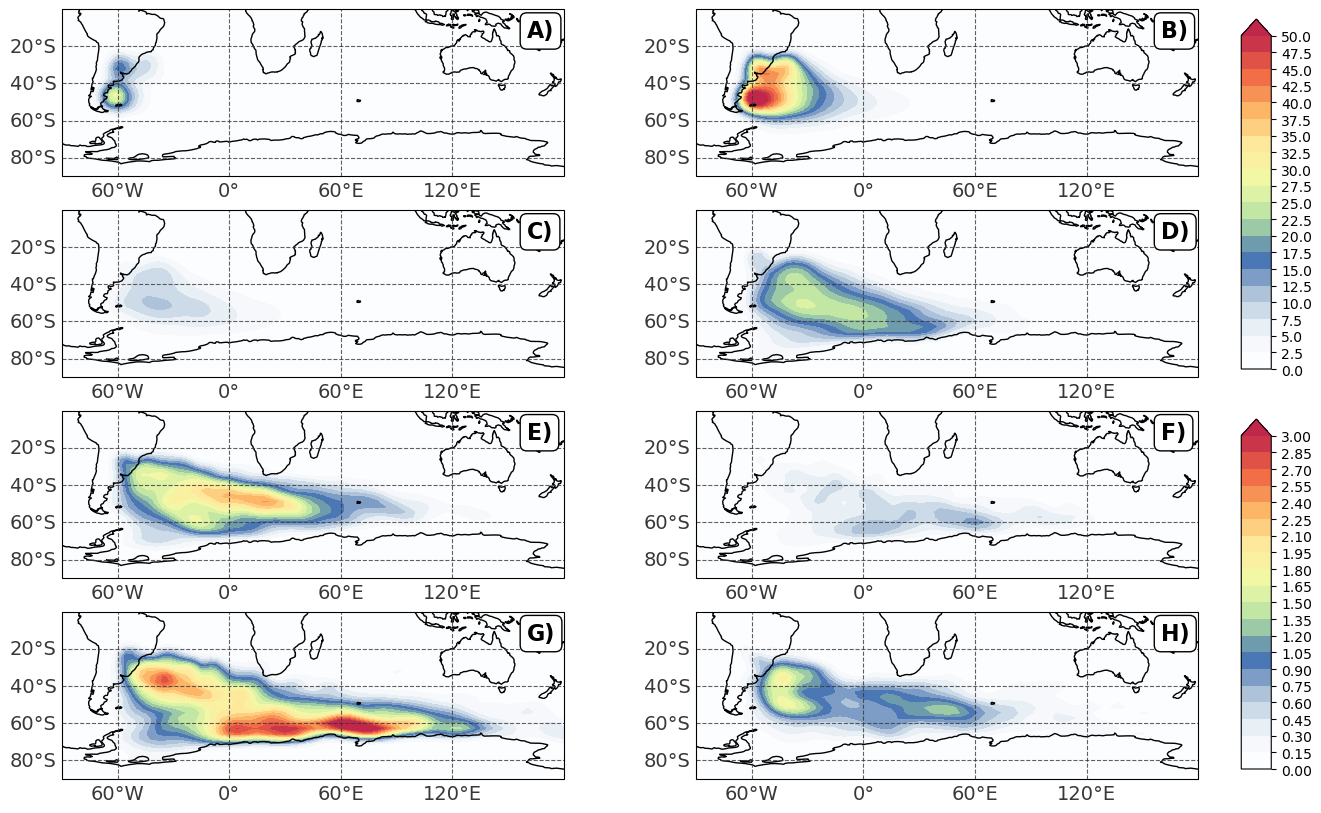
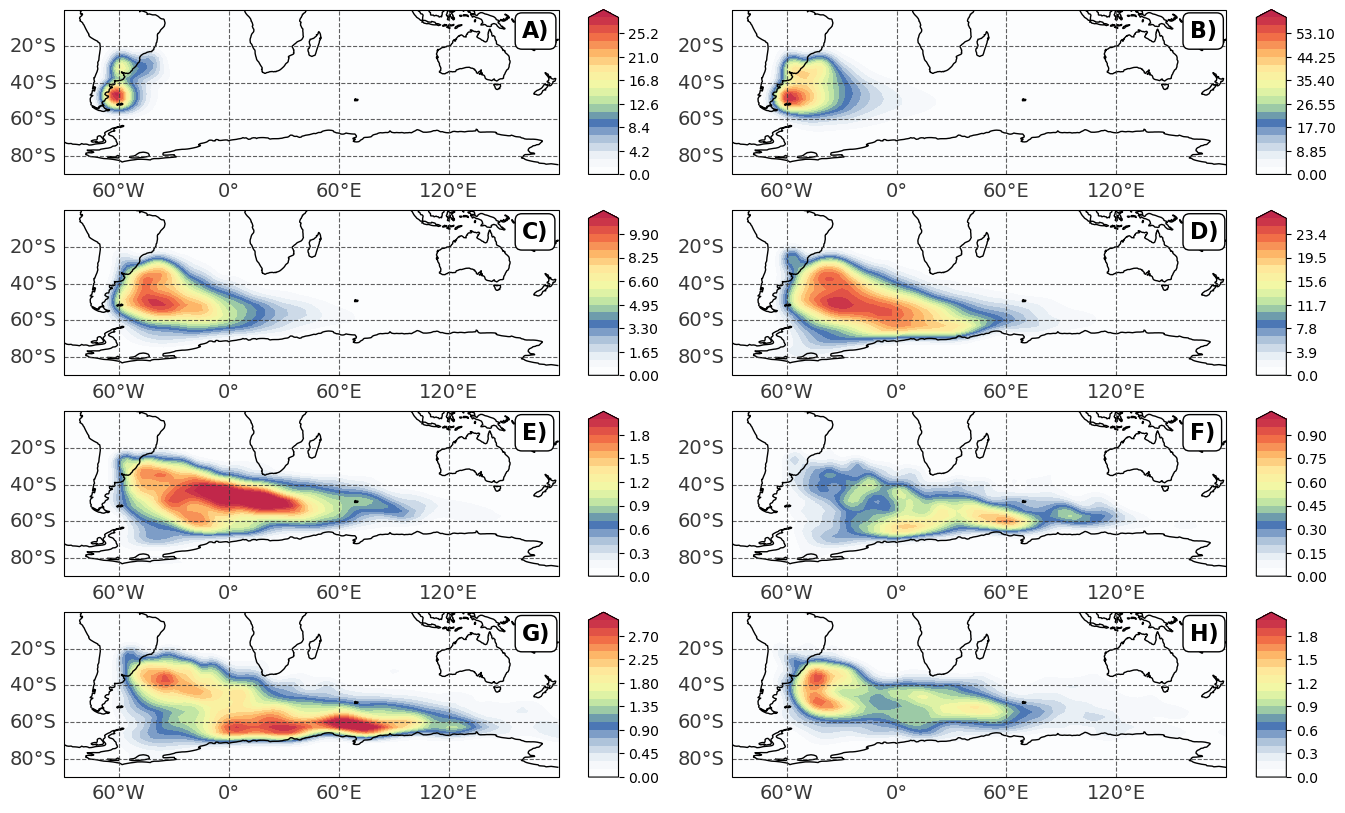
Updated figure so each plot has its cbar

Changed region(s): [[0.0, 0.0, 0.9932, 0.984], [0.3104, 0.9533, 0.3724, 0.984]]

diff --git a/src_manuscript_life-cycle/phases_density.py b/src_manuscript_life-cycle/phases_density.py
@@ -3,10 +3,10 @@
 #                                                         :::      ::::::::    #
 #    phases_density.py                                  :+:      :+:    :+:    #
 #                                                     +:+ +:+         +:+      #
-#    By: Danilo <danilo.oceano@gmail.com>           +#+  +:+       +#+         #
+#    By: Danilo  <danilo.oceano@gmail.com>          +#+  +:+       +#+         #
 #                                                 +#+#+#+#+#+   +#+            #
 #    Created: 2023/08/08 20:33:08 by Danilo            #+#    #+#              #
-#    Updated: 2023/09/14 20:23:03 by Danilo           ###   ########.fr        #
+#    Updated: 2023/09/15 12:09:33 by Danilo           ###   ########.fr        #
 #                                                                              #
 # **************************************************************************** #
 
@@ -37,20 +37,16 @@ def plot_density(ax, i, density, label):
 
     lon, lat = density.lon, density.lat
 
-    if i < 4:
-        levels = np.linspace(0, 50, 21)
-    else:
-        levels = np.linspace(0, 3, 21)
+    levels = np.linspace(0, round(float(np.amax(density))), 21)
 
     cf = plt.contourf(lon, lat, density, cmap=cmap, levels=levels, extend='max')
 
-    if i == 0:
-        # Create a separate axis for the colorbar
-        cax = fig.add_axes([0.92, 0.52, 0.02, 0.35]) 
-        plt.colorbar(cf, cax=cax, ticks=levels)
-    if i == 4:
-        cax = fig.add_axes([0.92, 0.12, 0.02, 0.35]) 
-        plt.colorbar(cf, cax=cax, ticks=levels)
+    cax = fig.add_axes([ax.get_position().x1 + 0.02,
+                        ax.get_position().y0, 0.02,
+                        ax.get_position().height]) 
+    # Define the ticks for the colorbar with every 2nd value
+    ticks = np.round(levels[::3], decimals=2)
+    plt.colorbar(cf, cax=cax, ticks=ticks)
 
     props = dict(boxstyle='round', facecolor='white')
     ax.text(160, -18, label, ha='left', va='bottom', fontsize=16, fontweight='bold', bbox=props)
@@ -73,6 +69,8 @@ phases = ['incipient', 'intensification', 'mature', 'decay',
             'intensification 2', 'mature 2', 'decay 2', 'residual']
 
 letters = ['A)', 'B)', 'C)', 'D)', 'E)', 'F)', 'G)', 'H)']
+
+plt.subplots_adjust(wspace=0.35)
 
 for i, phase in enumerate(phases):
     
